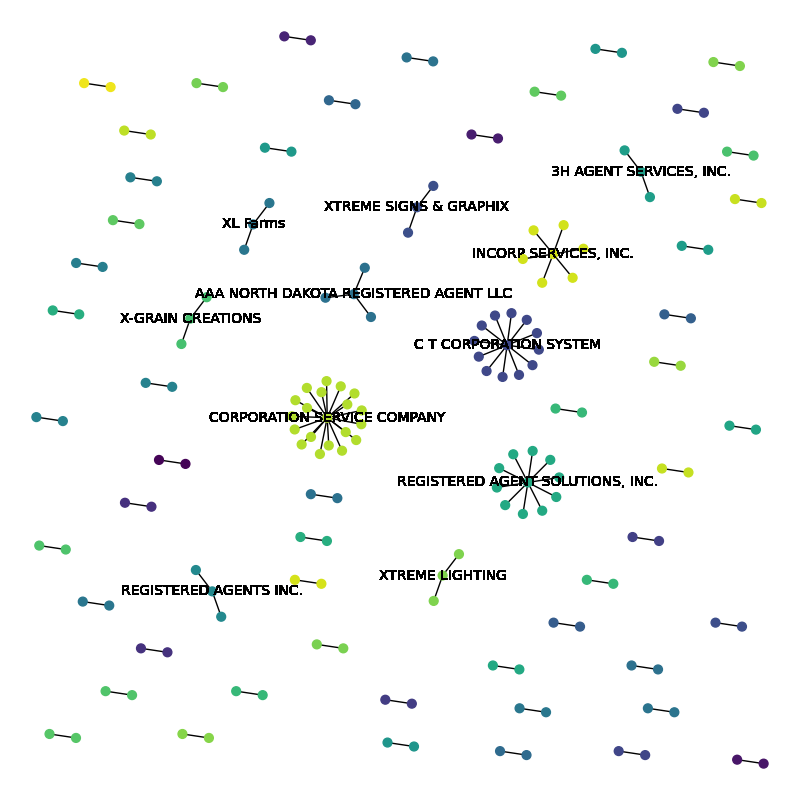
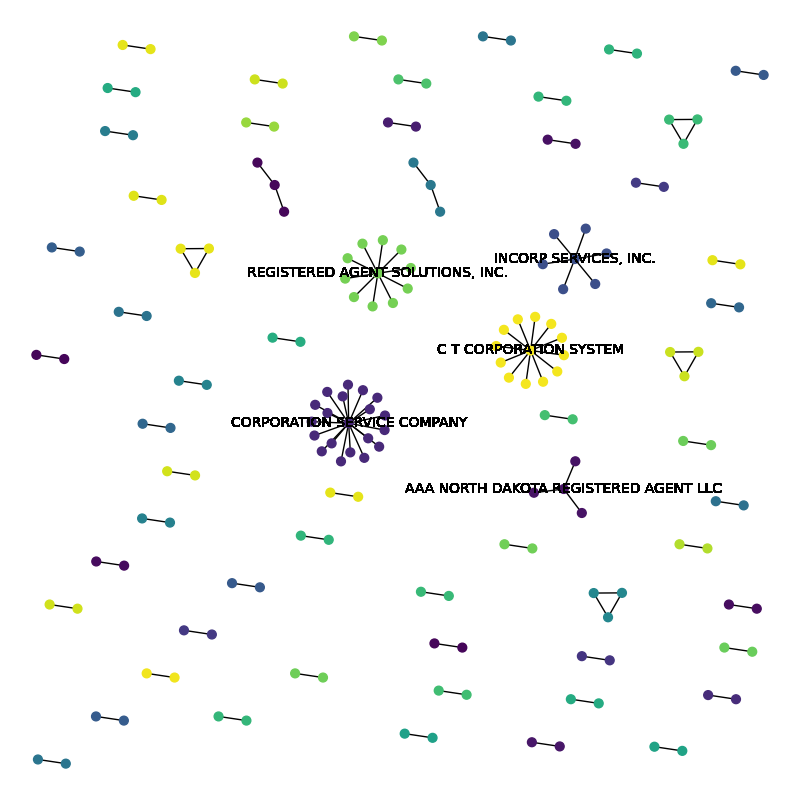
fixed to include all nodes

diff --git a/graph.py b/graph.py
@@ -4,6 +4,7 @@ import pandas as pd
 from networkx.drawing.nx_pydot import graphviz_layout
 from networkx.generators.atlas import graph_atlas_g
 import random
+import numpy as np
 
 df = pd.read_csv("request_data.csv")
 df = df[["NAME", "Registered Agent", "Commercial Registered Agent", "Owners", "Unnamed: 21"]]
@@ -13,16 +14,21 @@ loop_columns = ["Registered Agent", "Commercial Registered Agent", "Owners", "Un
 # businesses and registered agents/owners
 graph_df = df.set_index("NAME").stack(dropna=True).reset_index()
 graph_df = graph_df[["NAME", 0]]
-graph_df.columns = ["Business", "Owner/Agent"]
-graph = nx.from_pandas_edgelist(graph_df, "Business", "Owner/Agent")
+graph_df.columns = ["source", "target"]
+graph = nx.from_pandas_edgelist(graph_df, "source", "target")
 
-# setting up plot to label nodes if degree is greater than 1
+for i in range(len(loop_columns)-1):
+    graph.add_edges_from(zip(df[loop_columns[i]], df[loop_columns[i+1]]))
+
+graph.remove_node(np.nan)
+
+# setting up plot to label nodes if degree is greater than 2
 # to detect whether there are any agents tied to many companies
-# or companies tied to many agents
-# will be easy to tell company or agent because all companies start with X
+# using degree of 3 as minimum because some companies have both an owner and
+# registered agent, and will make the graph cluttered
 labels = {}
 for node in graph.nodes():
-    if graph.degree[node] > 1:
+    if graph.degree[node] > 2:
         # to get rid of addresses in agent information
         labels[node] = node.split("\n")[0]
 
